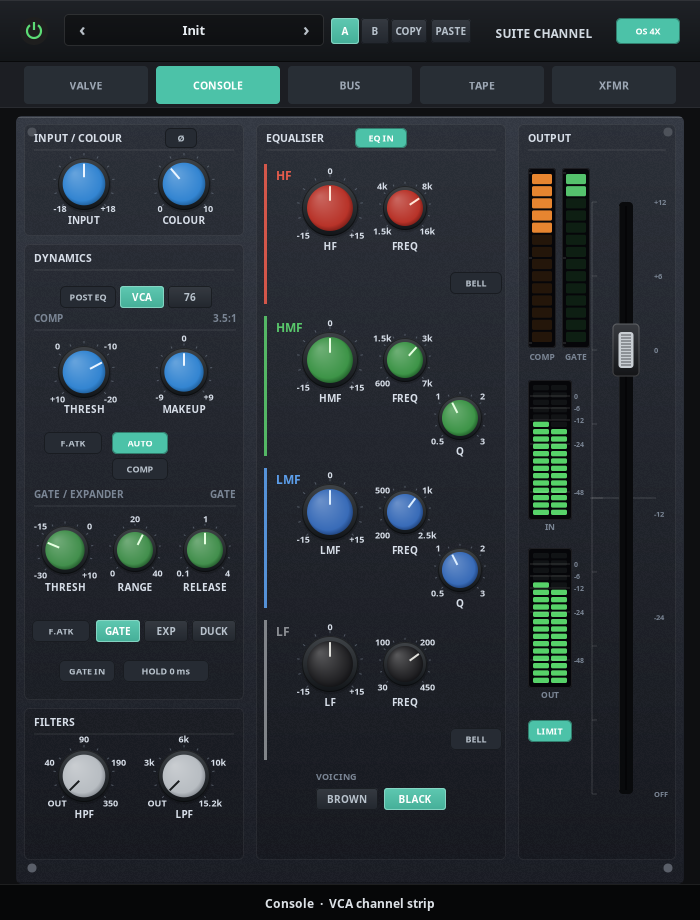
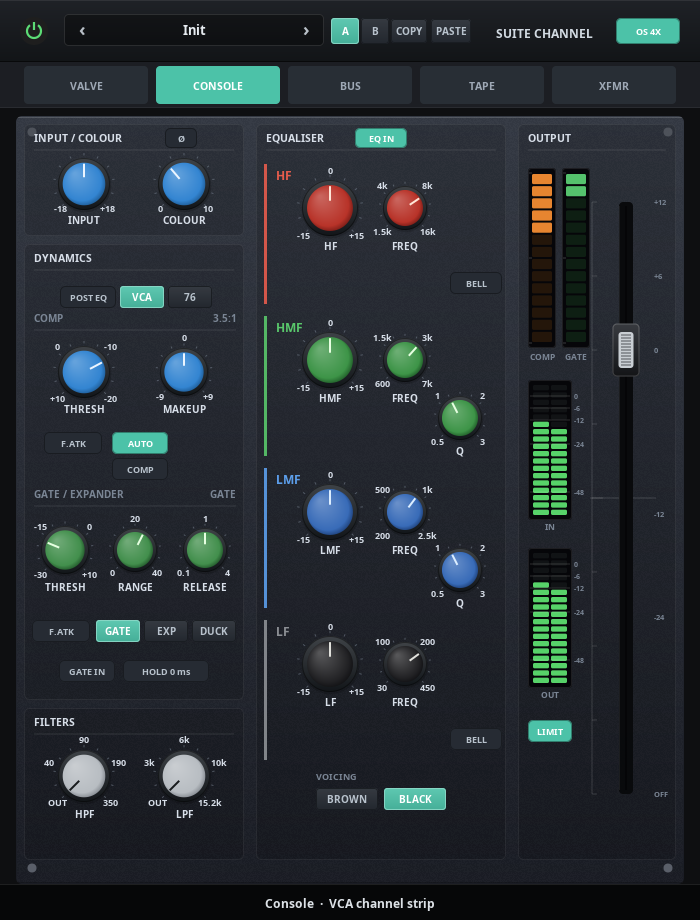
0.2.5: sharper text at reduced UI scales

diff --git a/src/ui/panel.cpp b/src/ui/panel.cpp
@@ -267,6 +267,16 @@ void Panel::text(cairo_t* cr, const char* s, double x, double y, double size,
   } else if (align == 2) {
     tx -= (ext.width + ext.x_bearing);
   }
+  // Snap the baseline to physical pixels. At fractional UI scales a baseline
+  // on a half pixel is the main reason small labels look soft.
+  cairo_matrix_t m;
+  cairo_get_matrix(cr, &m);
+  if (m.xx != 0.0 && m.yy != 0.0) {
+    const double devX = std::round(m.xx * tx + m.x0);
+    const double devY = std::round(m.yy * y + m.y0);
+    tx = (devX - m.x0) / m.xx;
+    y = (devY - m.y0) / m.yy;
+  }
   cairo_set_source_rgb(cr, r, g, b);
   cairo_move_to(cr, tx, y);
   cairo_show_text(cr, s);
@@ -536,6 +546,15 @@ void Panel::layout(const Shared& shared, const PanelState& state) {
 
 void Panel::draw(cairo_t* cr, const Shared& shared, const PanelState& state) {
   layout(shared, state);
+  // Full hinting and integer advance metrics keep 8-10 px labels crisp when
+  // the 700x920 panel is scaled down to fit a smaller screen.
+  cairo_font_options_t* fontOptions = cairo_font_options_create();
+  cairo_surface_get_font_options(cairo_get_target(cr), fontOptions);
+  cairo_font_options_set_hint_style(fontOptions, CAIRO_HINT_STYLE_FULL);
+  cairo_font_options_set_hint_metrics(fontOptions, CAIRO_HINT_METRICS_ON);
+  cairo_set_font_options(cr, fontOptions);
+  cairo_font_options_destroy(fontOptions);
+
   cairo_set_source_rgb(cr, 0.055, 0.060, 0.070);
   cairo_paint(cr);
 

diff --git a/src/clap/suite_channel_clap.cpp b/src/clap/suite_channel_clap.cpp
@@ -251,6 +251,7 @@ private:
       cairo_surface_flush(backing);
       cairo_t* xcr = cairo_create(windowSurface);
       cairo_set_source_surface(xcr, backing, 0, 0);
+      cairo_pattern_set_filter(cairo_get_source(xcr), CAIRO_FILTER_NEAREST);
       cairo_paint(xcr);
       cairo_destroy(xcr);
       // Required: cairo's Xlib backend buffers the composite, and without

diff --git a/src/ui/lv2_ui.cpp b/src/ui/lv2_ui.cpp
@@ -207,6 +207,7 @@ struct Ui {
 
     cairo_t* xcr = cairo_create(windowSurface);
     cairo_set_source_surface(xcr, backing, 0, 0);
+    cairo_pattern_set_filter(cairo_get_source(xcr), CAIRO_FILTER_NEAREST);
     cairo_paint(xcr);
     cairo_destroy(xcr);
     // Required: cairo buffers the composite for Xlib surfaces.

diff --git a/src/version.hpp b/src/version.hpp
@@ -7,6 +7,6 @@ namespace suite {
 constexpr int kVersionMajor = 0;
 constexpr int kVersionMinor = 1;
 constexpr int kVersionMicro = 6;
-constexpr const char* kVersion = "0.2.4";
+constexpr const char* kVersion = "0.2.5";
 
 } // namespace suite

diff --git a/README.md b/README.md
@@ -1,6 +1,6 @@
 # Suite Channel
 
-**Version 0.2.4** · GPL-3.0-or-later · CLAP + LV2 · Linux
+**Version 0.2.5** · GPL-3.0-or-later · CLAP + LV2 · Linux
 
 Suite Channel is a vertical SSL-style channel strip in the Comp Suite visual
 language. It combines:
@@ -166,7 +166,9 @@ session. Treat the URI as permanent.
 
 ## Current status
 
-0.2.4 tightens the Input/Colour and EQ knob groups against their labels,
+0.2.5 sharpens the editor at reduced scales with full font hinting, integer
+metrics, physical-pixel text snapping and a nearest-neighbour present.
+0.2.4 tightened the Input/Colour and EQ knob groups against their labels,
 centres the filter knobs, moves the phase and EQ IN buttons above their section
 rules, and clears the EQ Freq/Q scale labels from the knob bodies.
 0.2.3 put the gate GR meter on the CLAP/LV2 meters, aligned the phase and EQ IN
